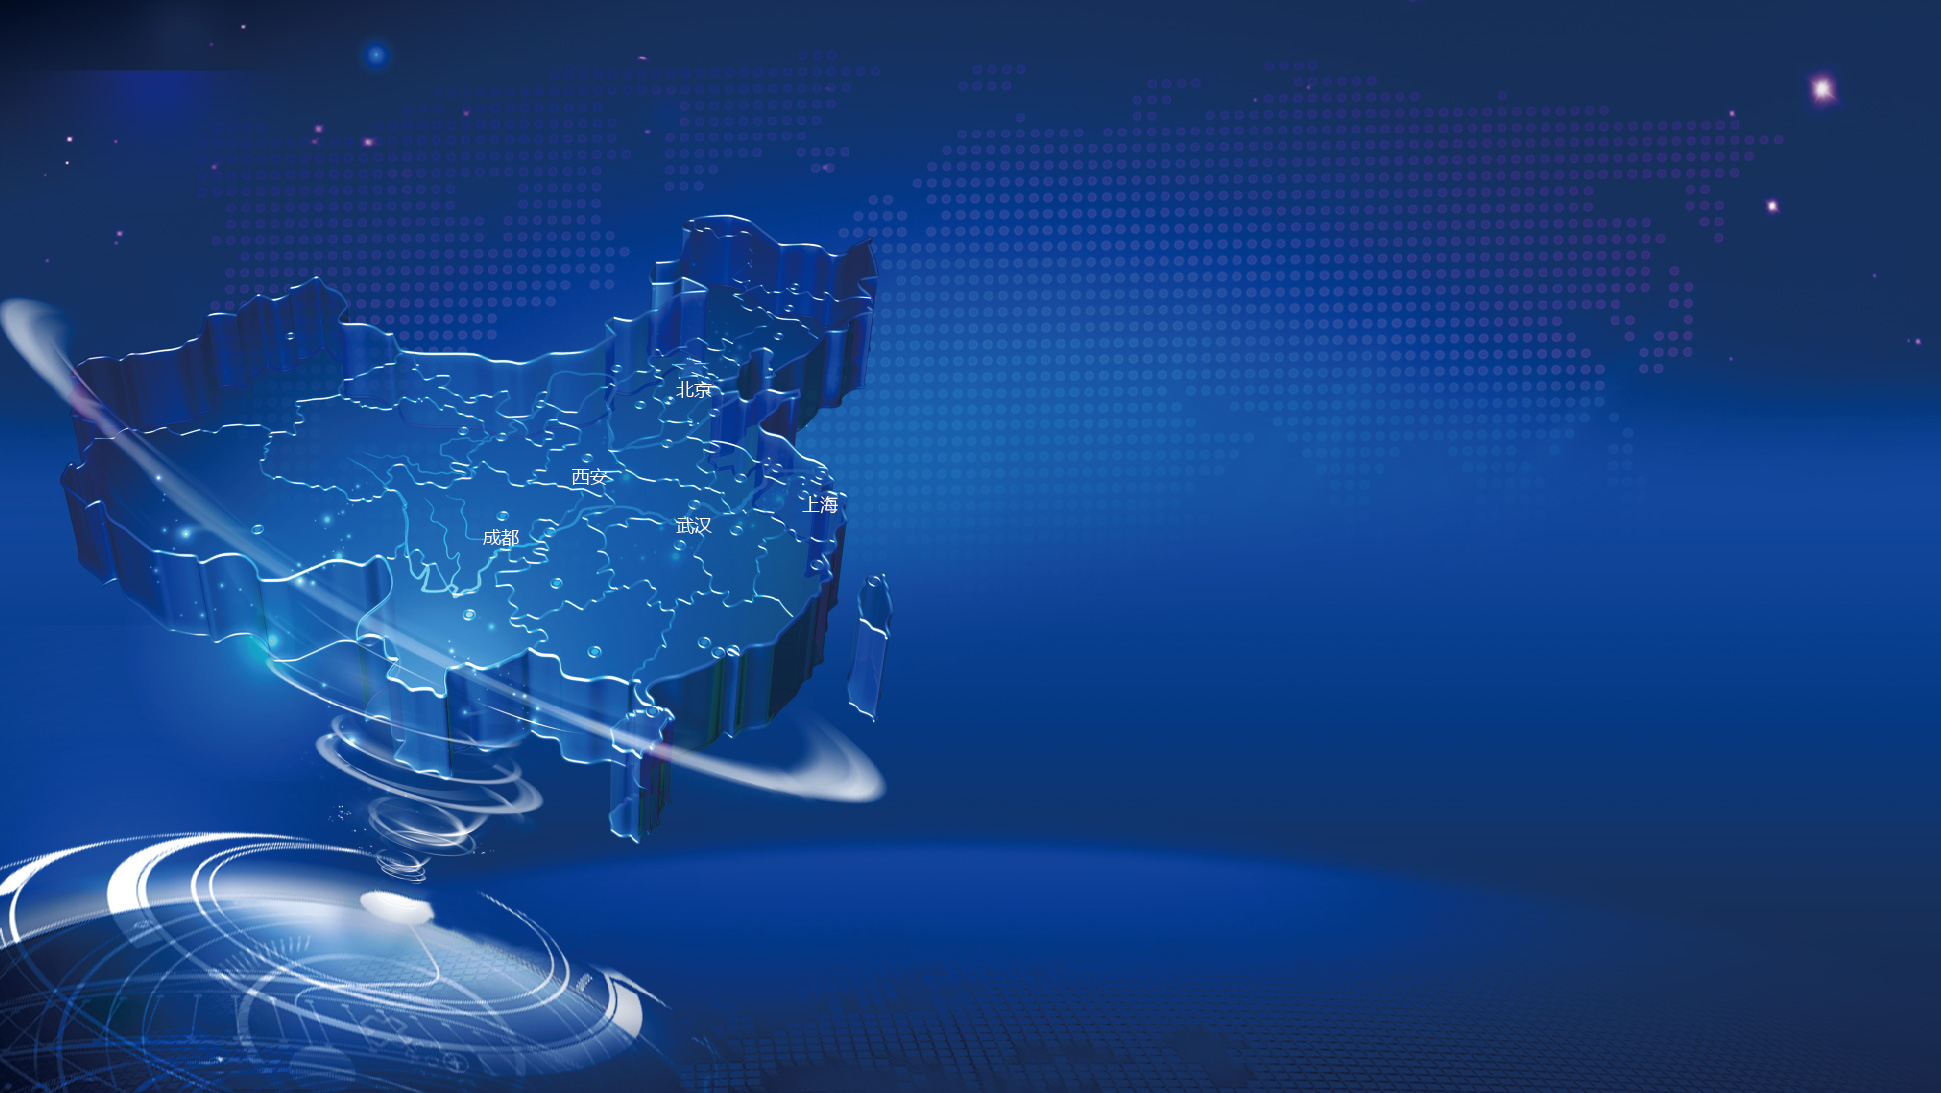
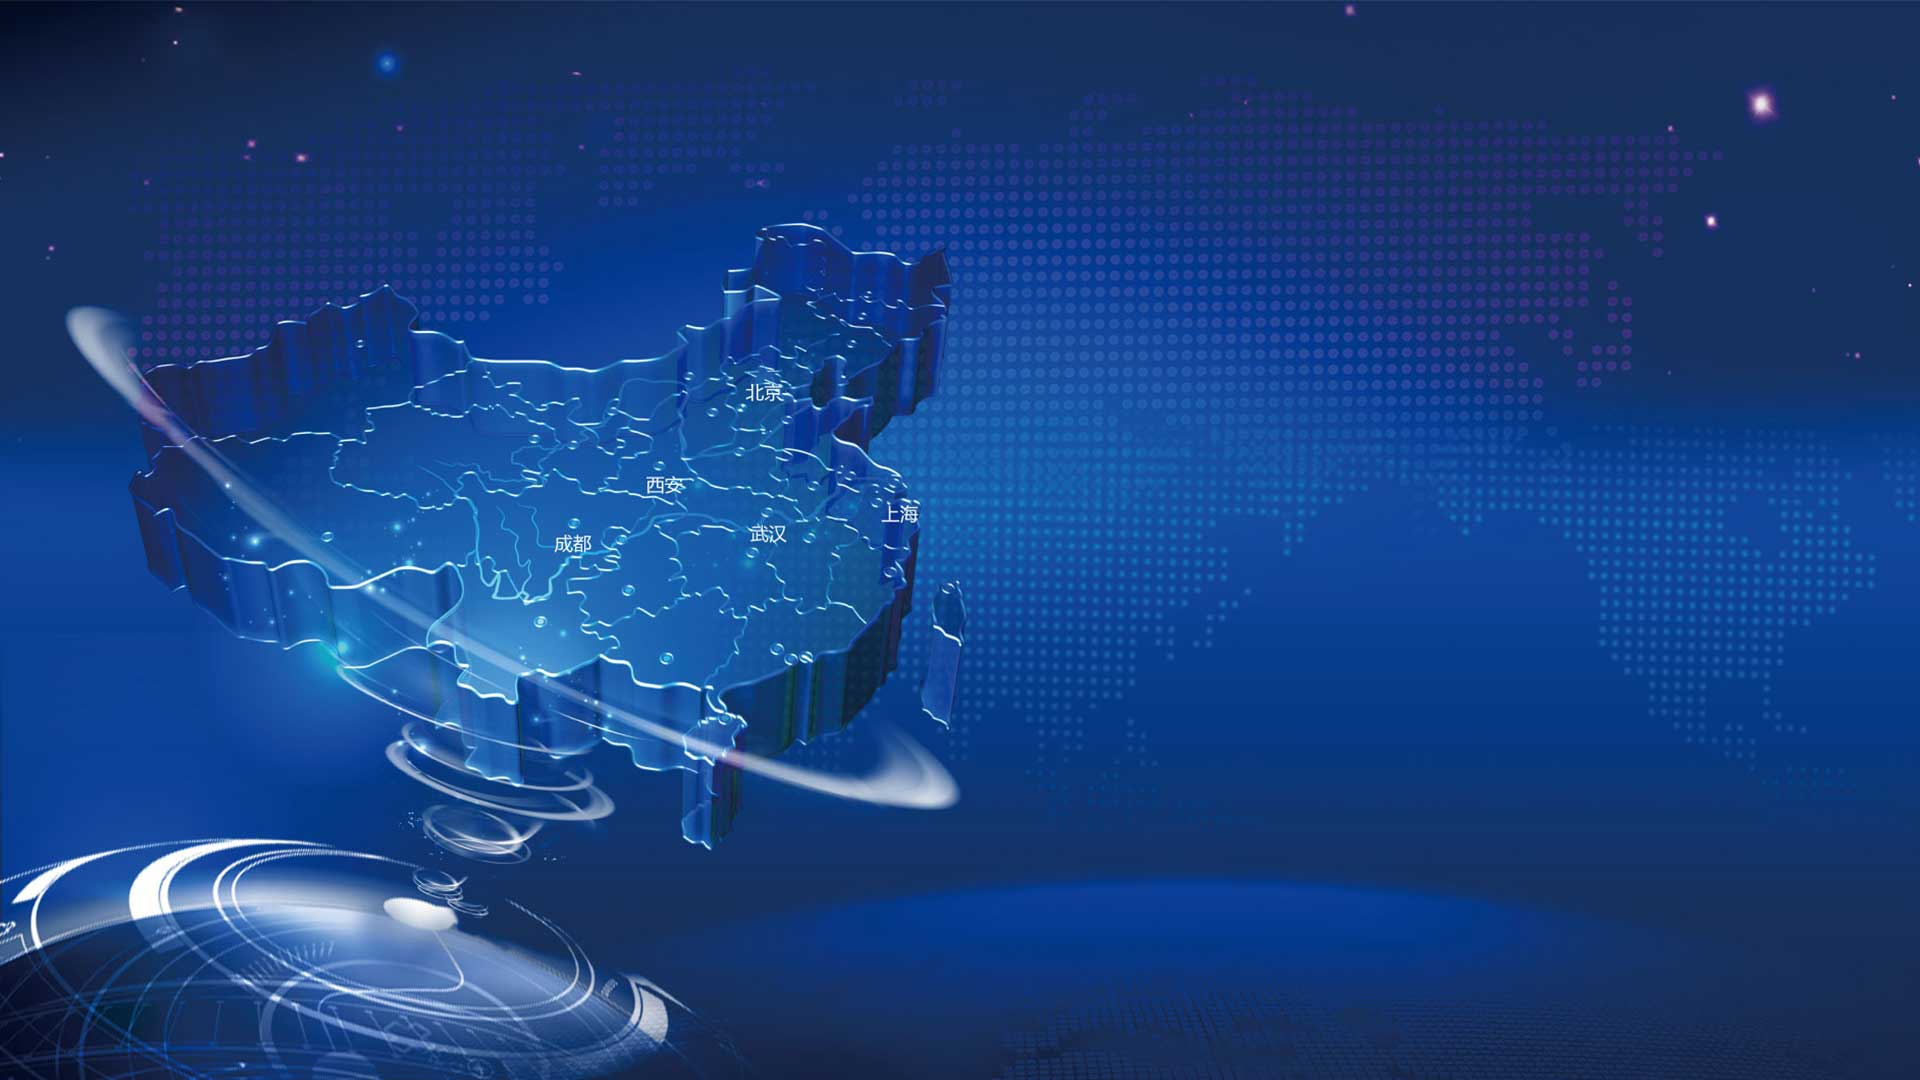
over

diff --git a/home/css/home.css b/home/css/home.css
@@ -209,14 +209,14 @@ body {
   height: 36px;
   line-height: 36px;
   font-size: 15px;
-  color: #0080c5c9;
+  color: #0080c5;
   background: #fff;
   border-radius: 5px;
   text-align: center;
 }
 .container .swiper_wrapper .swiper_slide.page_2 .page_map .city a:hover {
   color: #fff;
-  background: #0080c5c9;
+  background: #0080c5;
 }
 .container .swiper_wrapper .swiper_slide.page_2 .page_map .city .last {
   margin-left: 44px;
@@ -527,36 +527,36 @@ body {
   height: 35px;
 }
 .page_2 .point.beijing {
-  top: 290px;
-  left: 691px;
+  top: 298px;
+  left: 769px;
 }
 .page_2 .point.beijing .pin {
   animation-delay: 0s;
 }
 .page_2 .point.wuhan {
-  top: 421px;
-  left: 691px;
+  top: 433px;
+  left: 772px;
 }
 .page_2 .point.wuhan .pin {
   animation-delay: 2s;
 }
 .page_2 .point.shanghai {
-  top: 392px;
-  left: 815px;
+  top: 408px;
+  left: 901px;
 }
 .page_2 .point.shanghai .pin {
   animation-delay: 0.8s;
 }
 .page_2 .point.chengdu {
-  top: 430px;
-  left: 502px;
+  top: 447px;
+  left: 580px;
 }
 .page_2 .point.chengdu .pin {
   animation-delay: 1s;
 }
 .page_2 .point.xian {
-  top: 376px;
-  left: 587px;
+  top: 388px;
+  left: 664px;
 }
 .page_2 .point.xian .pin {
   animation-delay: 1.5s;
@@ -659,24 +659,24 @@ body {
     height: 35px;
   }
   .container .swiper_wrapper .page_2 .point.beijing {
-    top: 293px;
-    left: 603px;
+    top: 300px;
+    left: 675px;
   }
   .container .swiper_wrapper .page_2 .point.wuhan {
-    top: 411px;
-    left: 604px;
+    top: 422px;
+    left: 675px;
   }
   .container .swiper_wrapper .page_2 .point.shanghai {
-    top: 388px;
-    left: 713px;
+    top: 400px;
+    left: 786px;
   }
   .container .swiper_wrapper .page_2 .point.chengdu {
-    top: 420px;
-    left: 439px;
+    top: 432px;
+    left: 505px;
   }
   .container .swiper_wrapper .page_2 .point.xian {
-    top: 371px;
-    left: 511px;
+    top: 382px;
+    left: 581px;
   }
   .container .swiper_wrapper .swiper_slide.page_2 .page_map .city_title h3 {
     font-size: 30px;
@@ -710,24 +710,24 @@ body {
     height: 35px;
   }
   .container .swiper_wrapper .page_2 .point.beijing {
-    top: 184px;
-    left: 490px;
+    top: 189px;
+    left: 548px;
   }
   .container .swiper_wrapper .page_2 .point.wuhan {
-    top: 276px;
-    left: 493px;
+    top: 285px;
+    left: 552px;
   }
   .container .swiper_wrapper .page_2 .point.shanghai {
-    top: 256px;
-    left: 582px;
+    top: 266px;
+    left: 640px;
   }
   .container .swiper_wrapper .page_2 .point.chengdu {
-    top: 283px;
-    left: 359px;
+    top: 294px;
+    left: 413px;
   }
   .container .swiper_wrapper .page_2 .point.xian {
-    top: 243px;
-    left: 417px;
+    top: 254px;
+    left: 474px;
   }
   .container .swiper_wrapper .swiper_slide.page_2 .page_map .city_title h3 {
     font-size: 25px;

diff --git a/home/css/home.less b/home/css/home.less
@@ -214,14 +214,14 @@ body {
               height: 36px;
               line-height: 36px;
               font-size: 15px;
-              color: #0080c5c9;
+              color: #0080c5;
               background:#fff;
               border-radius: 5px;
               text-align: center;
               //text-decoration: underline;
               &:hover {
                 color:#fff;
-                background: #0080c5c9;
+                background: #0080c5;
               }
             }
             .last {
@@ -556,36 +556,36 @@ body {
   width: 35px;
   height: 35px;
   &.beijing {
-    top: 290px;
-    left: 691px;
+    top: 298px;
+    left: 769px;
     .pin {
       animation-delay: 0s;
     }
   }
   &.wuhan {
-    top: 421px;
-    left: 691px;
+    top: 433px;
+    left: 772px;
     .pin {
       animation-delay: 2s;
     }
   }
   &.shanghai {
-    top: 392px;
-    left: 815px;
+    top: 408px;
+    left: 901px;
     .pin {
       animation-delay: .8s;
     }
   }
   &.chengdu {
-    top: 430px;
-    left: 502px;
+    top: 447px;
+    left: 580px;
     .pin {
       animation-delay: 1s;
     }
   }
   &.xian {
-    top: 376px;
-    left: 587px;
+    top: 388px;
+    left: 664px;
     .pin {
       animation-delay: 1.5s;
     }
@@ -695,24 +695,24 @@ body {
     width: 35px;
     height: 35px;
     &.beijing {
-      top: 293px;
-      left: 603px;
+      top: 300px;
+      left: 675px;
     }
     &.wuhan {
-      top: 411px;
-      left: 604px;
+      top: 422px;
+      left: 675px;
     }
     &.shanghai {
-      top: 388px;
-      left: 713px;
+      top: 400px;
+      left: 786px;
     }
     &.chengdu {
-      top: 420px;
-      left: 439px;
+      top: 432px;
+      left: 505px;
     }
     &.xian {
-      top: 371px;
-      left: 511px;
+      top: 382px;
+      left: 581px;
     }
   }
   .container .swiper_wrapper .swiper_slide.page_2 .page_map {
@@ -753,24 +753,24 @@ body {
     width: 35px;
     height: 35px;
     &.beijing {
-      top: 184px;
-      left: 490px;
+      top: 189px;
+      left: 548px;
     }
     &.wuhan {
-      top: 276px;
-      left: 493px;
+      top: 285px;
+      left: 552px;
     }
     &.shanghai {
-      top: 256px;
-      left: 582px;
+      top: 266px;
+      left: 640px;
     }
     &.chengdu {
-      top: 283px;
-      left: 359px;
+      top: 294px;
+      left: 413px;
     }
     &.xian {
-      top: 243px;
-      left: 417px;
+      top: 254px;
+      left: 474px;
     }
   }
   .container .swiper_wrapper .swiper_slide.page_2 .page_map {

diff --git a/test/index.html b/test/index.html
@@ -33,6 +33,8 @@
 </head>
 
 <body>
+
+<a href="https://zhengqi.10086.cn/">https://zhengqi.10086.cn/</a>
   <div class="wrapper_box">
     <div class="swiper-container">
 
